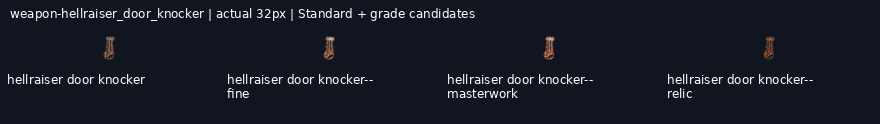
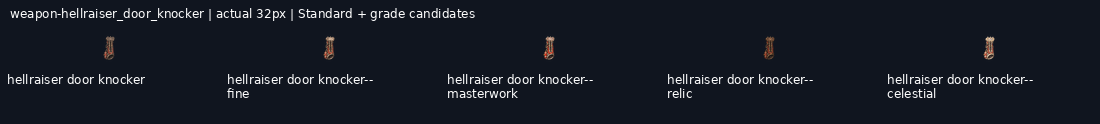
art: draw weapon-hellraiser_door_knocker--celestial grade candidate

diff --git a/art/_archive/gear/2026-11-19-kept-blade-grades/HANDOFF.md b/art/_archive/gear/2026-11-19-kept-blade-grades/HANDOFF.md
@@ -1,6 +1,6 @@
 # Gear grade candidates
 
-**192/244 grade candidates delivered** on `art/2026-11-19-kept-blade-grades`. Shared mailbox: https://github.com/leonpentastorm/Project-Heaven-Cry/issues/3 . See claim.json for this lane’s current Standards. Released overlapping blades reuse12 peer candidates, with3 local alternatives archived.
+**193/244 grade candidates delivered** on `art/2026-11-19-kept-blade-grades`. Shared mailbox: https://github.com/leonpentastorm/Project-Heaven-Cry/issues/3 . See claim.json for this lane’s current Standards. Released overlapping blades reuse12 peer candidates, with3 local alternatives archived.
 
 Leon requested continuous candidate production; proof approval is not fabricated. All candidates remain review-candidate, production_approved:false, implementation_ready:false, with outline.review_required:true. Exact outline is measured, never asserted unless the masks match. Per-image registration is uniform scaling/translation only, without warp, silhouette masks, filled pixels or code-drawn substitutes. The generated native remains untouched.
 
@@ -10,12 +10,12 @@ Tomorrow: fetch this branch and develop safely, read the latest issue 3 comments
 
 Peer audit: [coordination/peer-audit-2026-11-19.md](coordination/peer-audit-2026-11-19.md). Peer58 masters/232 exports and12 canonical imports are integrated with versioned alpha<8 cleanup; originals are retained. See coordination/peer-import-v2/manifest.json and post-catalog VALIDATION.json (strict margins pass, solid alpha unchanged). Peer quota resets20 November2026 at09:45:39 Bangkok time; this does not establish this session’s quota.
 
-Remaining: weapon-ork_machete--masterwork, weapon-ork_machete--relic, weapon-ork_machete--celestial, weapon-war_axe--fine, weapon-war_axe--masterwork, weapon-war_axe--relic, weapon-war_axe--celestial, weapon-parlour_pistol--fine, weapon-parlour_pistol--masterwork, weapon-parlour_pistol--relic, weapon-parlour_pistol--celestial, weapon-lever_carbine--fine, weapon-lever_carbine--masterwork, weapon-lever_carbine--relic, weapon-lever_carbine--celestial, weapon-sawn_off--fine, weapon-sawn_off--masterwork, weapon-sawn_off--relic, weapon-sawn_off--celestial, weapon-coach_gun--fine, weapon-coach_gun--masterwork, weapon-coach_gun--relic, weapon-coach_gun--celestial, weapon-legion_bullpup--fine, weapon-legion_bullpup--masterwork, weapon-legion_bullpup--relic, weapon-legion_bullpup--celestial, weapon-whisper_smg--fine, weapon-whisper_smg--masterwork, weapon-whisper_smg--relic, weapon-whisper_smg--celestial, weapon-war_pick--fine, weapon-war_pick--masterwork, weapon-war_pick--relic, weapon-war_pick--celestial, weapon-war_hammer--fine, weapon-war_hammer--masterwork, weapon-war_hammer--relic, weapon-war_hammer--celestial, weapon-short_bow--fine, weapon-short_bow--masterwork, weapon-short_bow--relic, weapon-short_bow--celestial, weapon-hellraiser_door_knocker--celestial, weapon-throwing_darts--fine, weapon-throwing_darts--masterwork, weapon-throwing_darts--relic, weapon-throwing_darts--celestial, weapon-throwing_javelins--fine, weapon-throwing_javelins--masterwork, weapon-throwing_javelins--relic, weapon-throwing_javelins--celestial.
+Remaining: weapon-ork_machete--masterwork, weapon-ork_machete--relic, weapon-ork_machete--celestial, weapon-war_axe--fine, weapon-war_axe--masterwork, weapon-war_axe--relic, weapon-war_axe--celestial, weapon-parlour_pistol--fine, weapon-parlour_pistol--masterwork, weapon-parlour_pistol--relic, weapon-parlour_pistol--celestial, weapon-lever_carbine--fine, weapon-lever_carbine--masterwork, weapon-lever_carbine--relic, weapon-lever_carbine--celestial, weapon-sawn_off--fine, weapon-sawn_off--masterwork, weapon-sawn_off--relic, weapon-sawn_off--celestial, weapon-coach_gun--fine, weapon-coach_gun--masterwork, weapon-coach_gun--relic, weapon-coach_gun--celestial, weapon-legion_bullpup--fine, weapon-legion_bullpup--masterwork, weapon-legion_bullpup--relic, weapon-legion_bullpup--celestial, weapon-whisper_smg--fine, weapon-whisper_smg--masterwork, weapon-whisper_smg--relic, weapon-whisper_smg--celestial, weapon-war_pick--fine, weapon-war_pick--masterwork, weapon-war_pick--relic, weapon-war_pick--celestial, weapon-war_hammer--fine, weapon-war_hammer--masterwork, weapon-war_hammer--relic, weapon-war_hammer--celestial, weapon-short_bow--fine, weapon-short_bow--masterwork, weapon-short_bow--relic, weapon-short_bow--celestial, weapon-throwing_darts--fine, weapon-throwing_darts--masterwork, weapon-throwing_darts--relic, weapon-throwing_darts--celestial, weapon-throwing_javelins--fine, weapon-throwing_javelins--masterwork, weapon-throwing_javelins--relic, weapon-throwing_javelins--celestial.
 
 Service-rejected requests (do not repeatedly resubmit): weapon-coach_gun--fine, weapon-legion_bullpup--fine, weapon-lever_carbine--fine, weapon-ork_machete--masterwork, weapon-parlour_pistol--fine, weapon-sawn_off--fine, weapon-short_bow--fine, weapon-war_axe--fine, weapon-war_hammer--fine, weapon-war_pick--fine, weapon-whisper_smg--fine.
 
 Waiting on rejected prerequisites: weapon-coach_gun--celestial, weapon-coach_gun--masterwork, weapon-coach_gun--relic, weapon-legion_bullpup--celestial, weapon-legion_bullpup--masterwork, weapon-legion_bullpup--relic, weapon-lever_carbine--celestial, weapon-lever_carbine--masterwork, weapon-lever_carbine--relic, weapon-ork_machete--celestial, weapon-ork_machete--relic, weapon-parlour_pistol--celestial, weapon-parlour_pistol--masterwork, weapon-parlour_pistol--relic, weapon-sawn_off--celestial, weapon-sawn_off--masterwork, weapon-sawn_off--relic, weapon-short_bow--celestial, weapon-short_bow--masterwork, weapon-short_bow--relic, weapon-war_axe--celestial, weapon-war_axe--masterwork, weapon-war_axe--relic, weapon-war_hammer--celestial, weapon-war_hammer--masterwork, weapon-war_hammer--relic, weapon-war_pick--celestial, weapon-war_pick--masterwork, weapon-war_pick--relic, weapon-whisper_smg--celestial, weapon-whisper_smg--masterwork, weapon-whisper_smg--relic.
 
-Ready independent next steps, in queue order: weapon-hellraiser_door_knocker--celestial, weapon-throwing_darts--fine, weapon-throwing_javelins--fine. Other pending grades follow their preceding grade.
+Ready independent next steps, in queue order: weapon-throwing_darts--fine, weapon-throwing_javelins--fine. Other pending grades follow their preceding grade.
 
 Runtime handoff: implementation_ready:false records review status but does not gate the web asset builder. The builder emits grade asset keys; the current UI gear resolver still needs grade-aware selection. Do not claim that runtime grade selection is implemented by these art deliveries.
